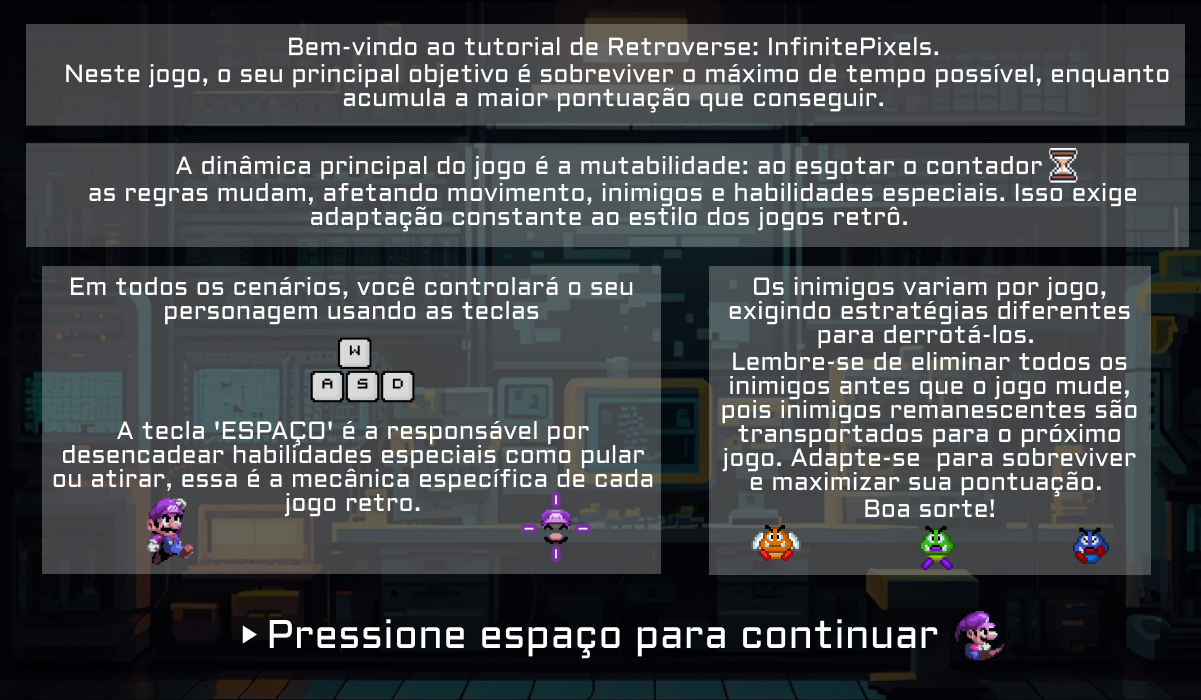
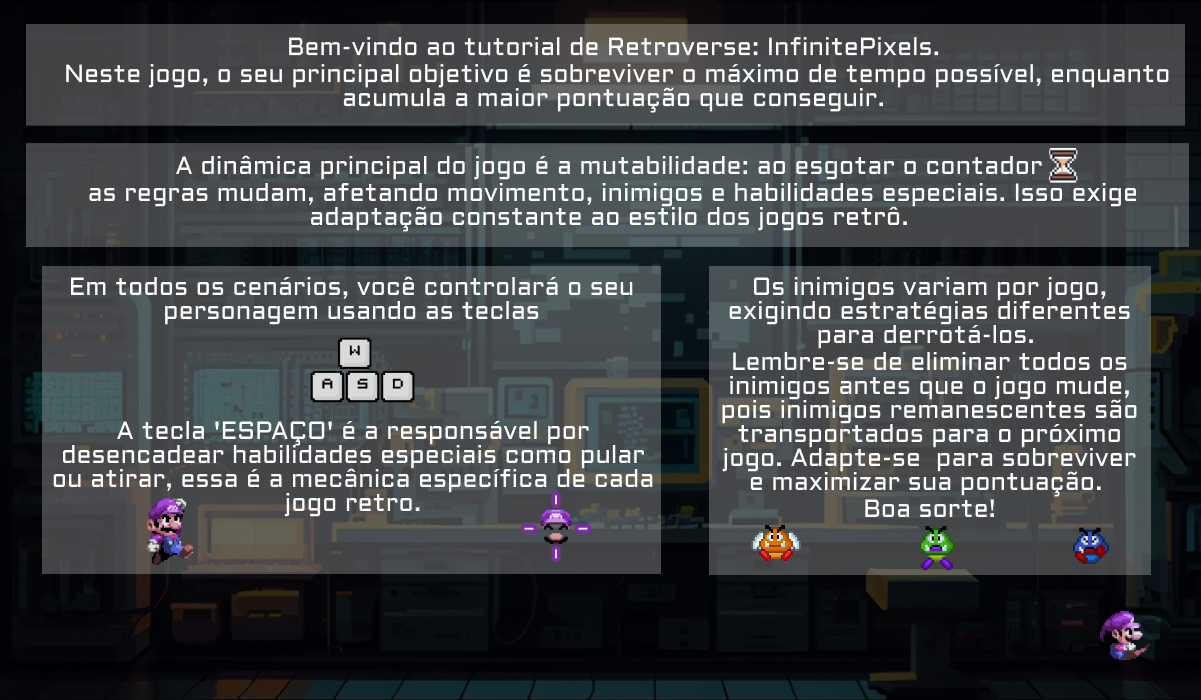
Adicionado a tela de tutorial

Changed region(s): [[0.1848, 0.87, 0.8318, 0.96], [0.9242, 0.87, 0.955, 0.96]]

diff --git a/versao_final/tutorial.py b/versao_final/tutorial.py
@@ -1,0 +1,31 @@
+import pygame
+
+
+class Tutorial:
+    def __init__(self, screen, press_space):
+        self.screen = screen
+        self.press_space = press_space
+        self.background = pygame.image.load('assets/assets_menu/tela_tutorial.png')
+        self.press_space_center_position = (600, 630)
+        self.clock = pygame.time.Clock()
+
+    def draw(self):
+        self.screen.blit(self.background, (0, 0))
+        press_space_image = self.press_space.get_current_frame()
+        press_space_position = (self.press_space_center_position[0] - press_space_image.get_width() / 2,
+                                self.press_space_center_position[1] - press_space_image.get_height() / 2)
+        self.screen.blit(press_space_image, press_space_position)
+        pygame.display.flip()
+
+    def main(self):
+        running = True
+        while running:
+            dt = self.clock.tick()
+            self.press_space.update(dt)
+            for event in pygame.event.get():
+                if event.type == pygame.QUIT:
+                    pygame.quit()
+                    return
+                if event.type == pygame.KEYDOWN and event.key == pygame.K_SPACE:
+                    return
+            self.draw()

diff --git a/versao_final/menu.py b/versao_final/menu.py
@@ -1,6 +1,9 @@
 from highscore import Highscore
 from gifanimation import Gif
+from tutorial import Tutorial
 import pygame
+
+from versao_final import tutorial
 
 
 class Menu:
@@ -55,8 +58,9 @@ class Menu:
 
     def main(self):
         running = True
+        tutorial_screen = Tutorial(self.screen, self.press_space)  # Create an instance of the Tutorial class
         while running:
-            dt = self.clock.tick()  # Seta os ticks para 60 e retorna o tempo desde o ultimo tick
+            dt = self.clock.tick()  # Seta os ticks para e retorna o tempo desde o ultimo tick
 
             self.selection_icon1.update(dt)
             self.selection_icon2.update(dt)
@@ -75,7 +79,7 @@ class Menu:
                         if self.current_selection == 0:
                             return 'start'
                         elif self.current_selection == 1:
-                            pygame.quit()
+                            tutorial_screen.main()
                             return
 
             self.draw()
